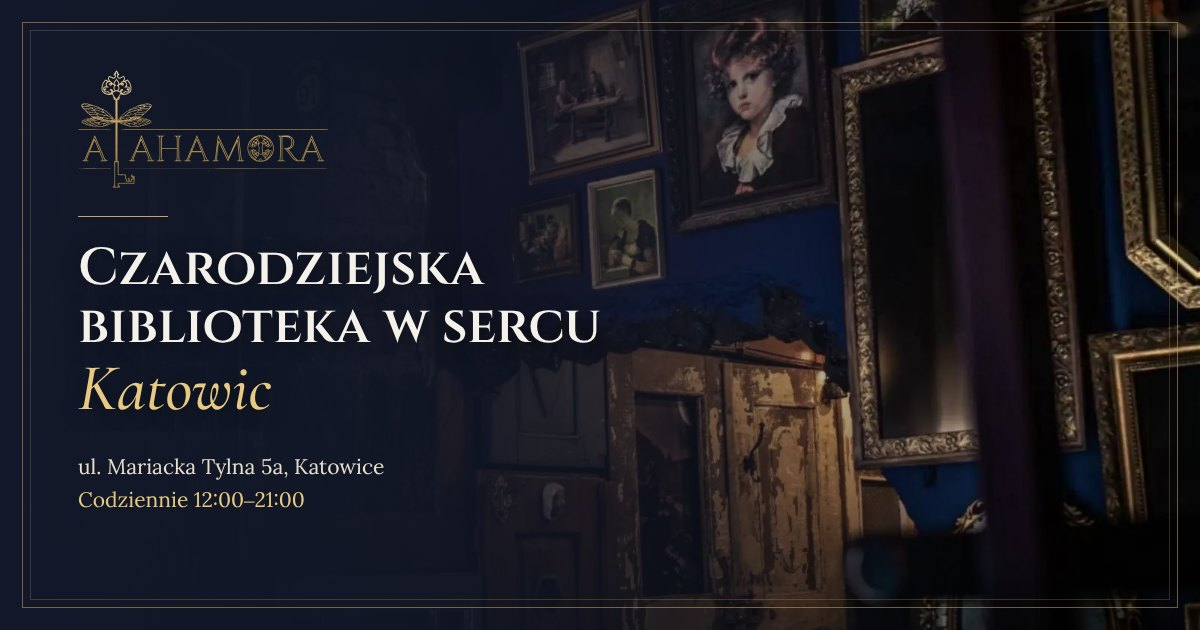
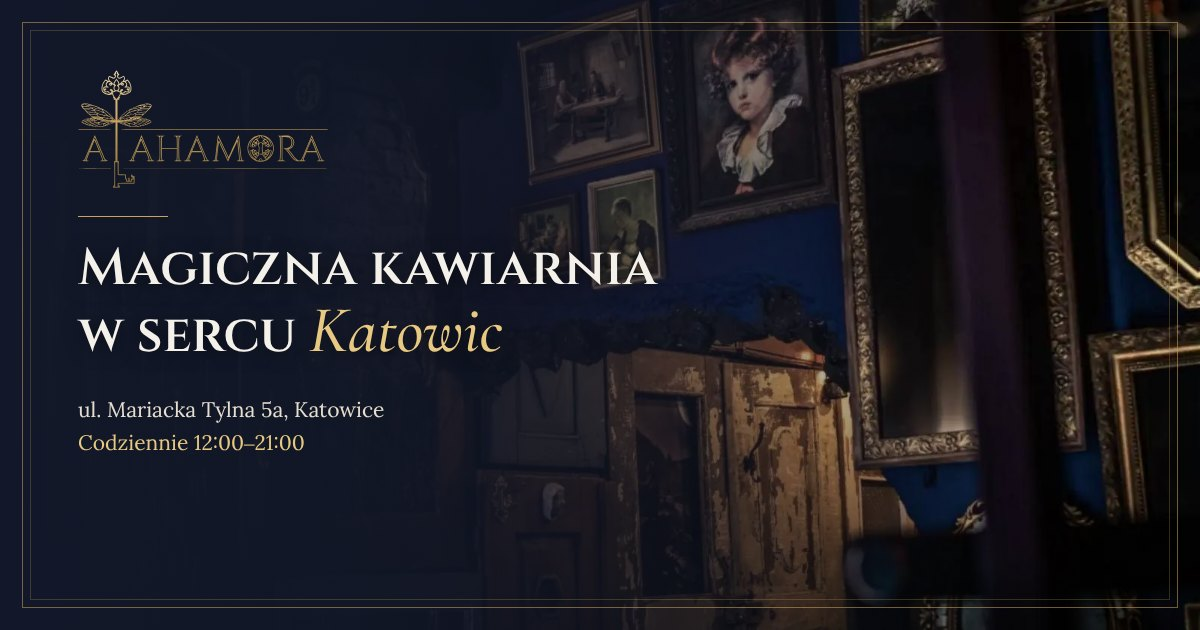
Katowice: nagłówek „Magiczna kawiarnia w sercu Katowic” (też obrazek OG i dane dla Google)

diff --git a/src/data/cities.js b/src/data/cities.js
@@ -145,7 +145,7 @@ export const cities = {
     og: '/og/katowice.jpg',
     theme: 'katowice', // granat + złoto
     nav: ['Menu', 'Lokal', 'Oferta', 'Galeria', 'Blog', 'Kontakt'],
-    h1: { before: 'Czarodziejska biblioteka w sercu ', em: 'Katowic' },
+    h1: { before: 'Magiczna kawiarnia w sercu ', em: 'Katowic' },
     lead:
       'Antyczne meble, ruchome obrazy i portale do innych światów. Wpadnij na magiczne bubble tea, kwiatowy napar z wróżeniem z fusów albo wegetariański obiad.',
     hero: {
